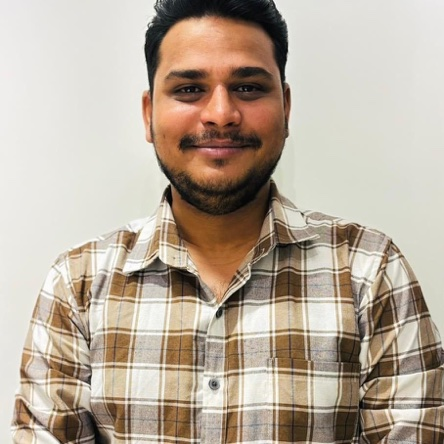
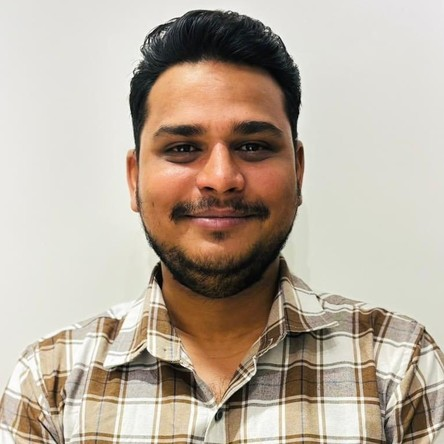
Fix off-center face crops for Ajay Gowardhane and Mayuri Khade; recolor Polaris advantage title
- Re-crop Ajay Gowardhane and Mayuri Khade's team photos with the
  face properly centered (the earlier naive width-based center crop
  left too much body below the chin and cut the face off-center).
- Add a titleClassName override to SectionHeading and use it to set
  "The Polaris advantage" title to the brand light green instead of
  white on the dark section background.

diff --git a/src/components/ui.tsx b/src/components/ui.tsx
@@ -61,11 +61,13 @@ export function SectionHeading({
   title,
   intro,
   align = "left",
+  titleClassName = "text-[#26502e]",
 }: {
   eyebrow?: string;
   title: string;
   intro?: string;
   align?: "left" | "center";
+  titleClassName?: string;
 }) {
   return (
     <div
@@ -79,7 +81,9 @@ export function SectionHeading({
         </Reveal>
       )}
       <Reveal as="span" variant="mask" className="mt-3 block">
-        <h2 className="text-balance text-3xl font-semibold tracking-tight text-[#26502e] sm:text-[2.5rem]">
+        <h2
+          className={`text-balance text-3xl font-semibold tracking-tight sm:text-[2.5rem] ${titleClassName}`}
+        >
           {title}
         </h2>
       </Reveal>

diff --git a/src/app/our-approach/page.tsx b/src/app/our-approach/page.tsx
@@ -232,7 +232,10 @@ export default function OurApproachPage() {
       {/* Advantage */}
       <div className="on-dark bg-[#15371b]">
         <Section>
-          <SectionHeading title="The Polaris advantage" />
+          <SectionHeading
+            title="The Polaris advantage"
+            titleClassName="text-brand"
+          />
           <div className="mt-14 grid gap-x-10 gap-y-12 sm:grid-cols-2 lg:grid-cols-3">
             {advantages.map((a, i) => (
               <Reveal as="article" key={a.title} delay={(i % 3) * 70}>
